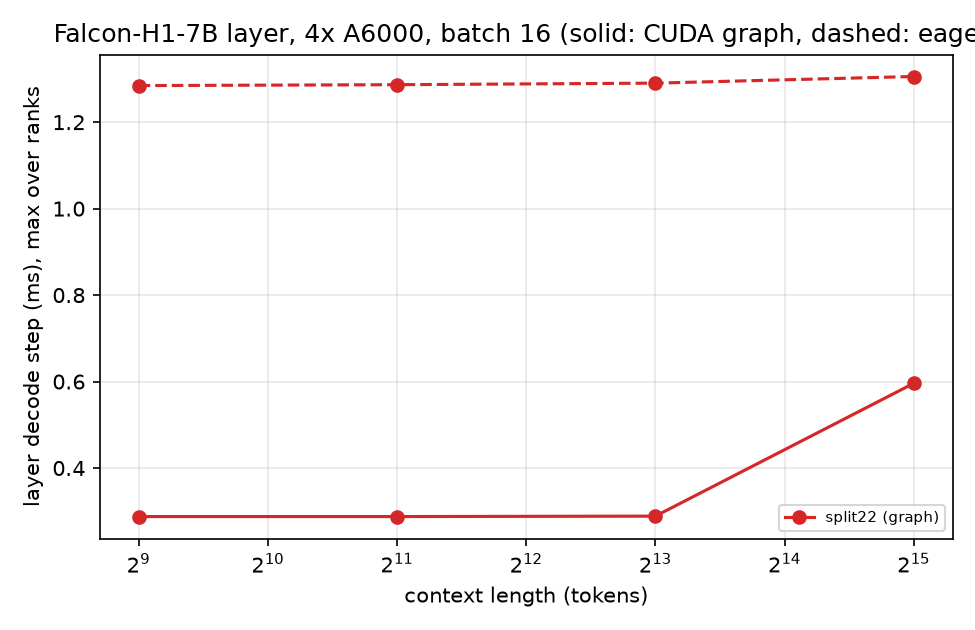
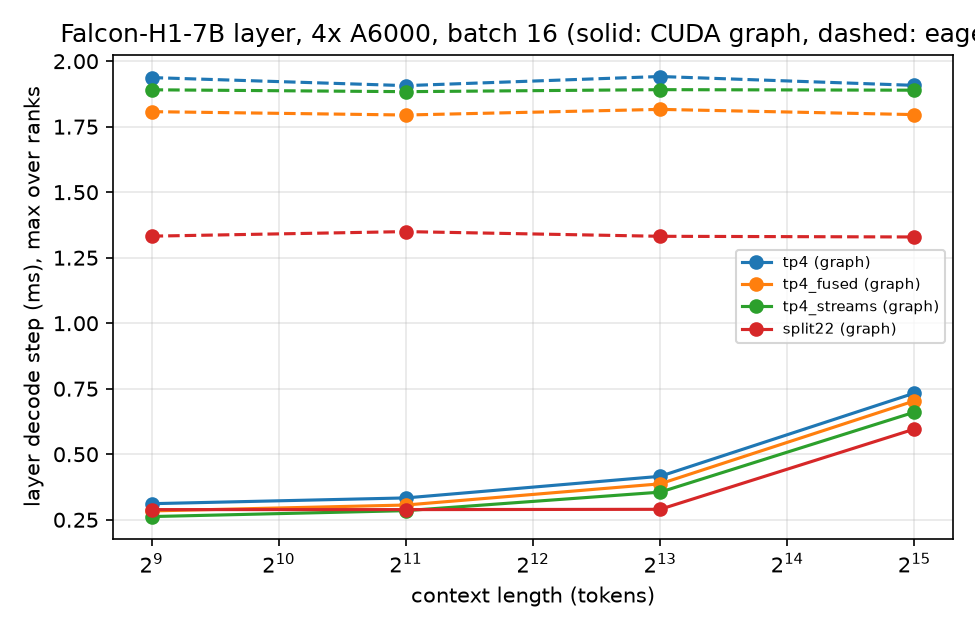
results: Falcon-H1-3B sweep and TP-2 reference points; doc: 3B results

diff --git a/doc/stage1_elastic_mixer_parallelism_plan.md b/doc/stage1_elastic_mixer_parallelism_plan.md
@@ -1074,3 +1074,20 @@ exists for the comparison, and a TP-2 reference is measured as well.
 
 Recipe accuracy so far: direction right in all 32 measured cells across the 7B and 34B; magnitude within about
 10 percent except at short context, where the model is conservative.
+
+**Falcon-H1-3B at 4 ranks (uneven 3/2/3/2 query-head tp4 as the baseline), graph variant, split22 over tp4:**
+1.08x to 1.16x at 512 to 2048 tokens, 1.27x to 1.43x at 8192, 1.14x to 1.38x at 32K, 1.00x at batch 64 with 512
+tokens; repeat-to-repeat CoV below 2 percent in every cell. Same shape as the 7B, as the recipe predicted for a
+second configuration of the family.
+
+TP-2 reference (the largest homogeneous layout vLLM supports for the 3B), batch 16, graph variant:
+
+| model | layout | 512 | 8192 | 32768 |
+|---|---|---|---|---|
+| 3B | tp2 on 2 GPUs | 0.353 ms | 0.457 ms | 0.771 ms |
+| 3B | split22 on 4 GPUs | 0.288 ms | 0.291 ms | 0.596 ms |
+| 7B | tp2 on 2 GPUs | 0.480 ms | 0.577 ms | 0.893 ms |
+| 7B | split22 on 4 GPUs | 0.330 ms | 0.340 ms | 0.664 ms |
+
+So for the 3B the split is the only 4-GPU layout an engine could ship without uneven head shards, and it is
+1.23x to 1.57x faster per layer than the TP-2 ceiling.

diff --git a/results/h1_3b/summary/summary.md b/results/h1_3b/summary/summary.md
@@ -4,6 +4,22 @@
 
 | batch | ctx | tp4 ms | tp4_fused | tp4_streams | split22 | swing best (S, cuts) | swing speedup | max CoV |
 |---|---|---|---|---|---|---|---|---|
+| 1 | 512 | 0.219 | 1.06x | 1.16x | 1.11x | - | - | 0.02 |
+| 1 | 2048 | 0.221 | 1.06x | 1.16x | 1.11x | - | - | 0.01 |
+| 1 | 8192 | 0.232 | 1.06x | 1.21x | 1.16x | - | - | 0.01 |
+| 1 | 32768 | 0.266 | 1.06x | 1.15x | 1.33x | - | - | 0.01 |
+| 4 | 512 | 0.247 | 1.07x | 1.19x | 1.13x | - | - | 0.00 |
+| 4 | 2048 | 0.253 | 1.07x | 1.19x | 1.16x | - | - | 0.01 |
+| 4 | 8192 | 0.276 | 1.06x | 1.18x | 1.27x | - | - | 0.00 |
+| 4 | 32768 | 0.361 | 1.05x | 1.20x | 1.38x | - | - | 0.00 |
+| 16 | 512 | 0.311 | 1.10x | 1.19x | 1.08x | - | - | 0.00 |
+| 16 | 2048 | 0.333 | 1.09x | 1.17x | 1.15x | - | - | 0.00 |
+| 16 | 8192 | 0.416 | 1.07x | 1.17x | 1.43x | - | - | 0.00 |
+| 16 | 32768 | 0.733 | 1.04x | 1.11x | 1.23x | - | - | 0.00 |
+| 64 | 512 | 0.552 | 1.13x | 1.17x | 1.00x | - | - | 0.00 |
+| 64 | 2048 | 0.635 | 1.11x | 1.15x | 1.15x | - | - | 0.00 |
+| 64 | 8192 | 0.947 | 1.07x | 1.10x | 1.39x | - | - | 0.00 |
+| 64 | 32768 | 2.227 | 1.03x | 1.05x | 1.14x | - | - | 0.00 |
 
 ## Go / no-go
 
